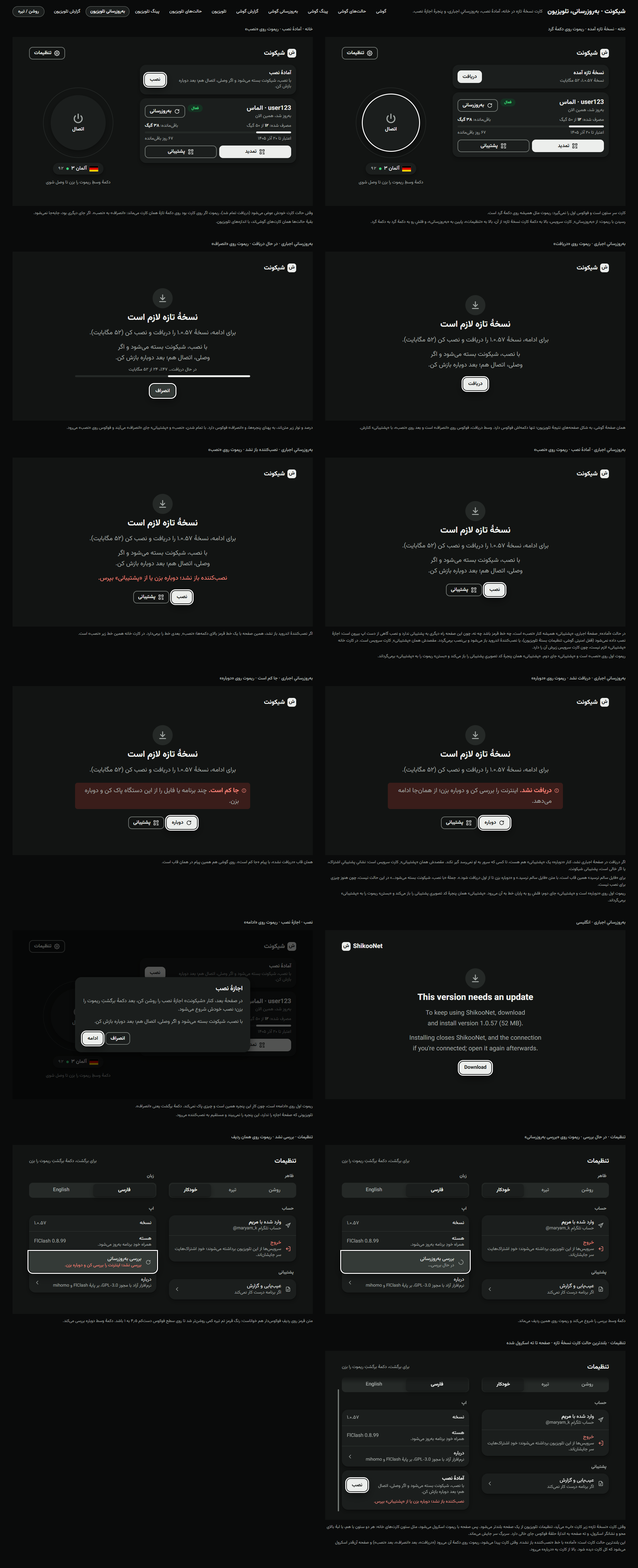
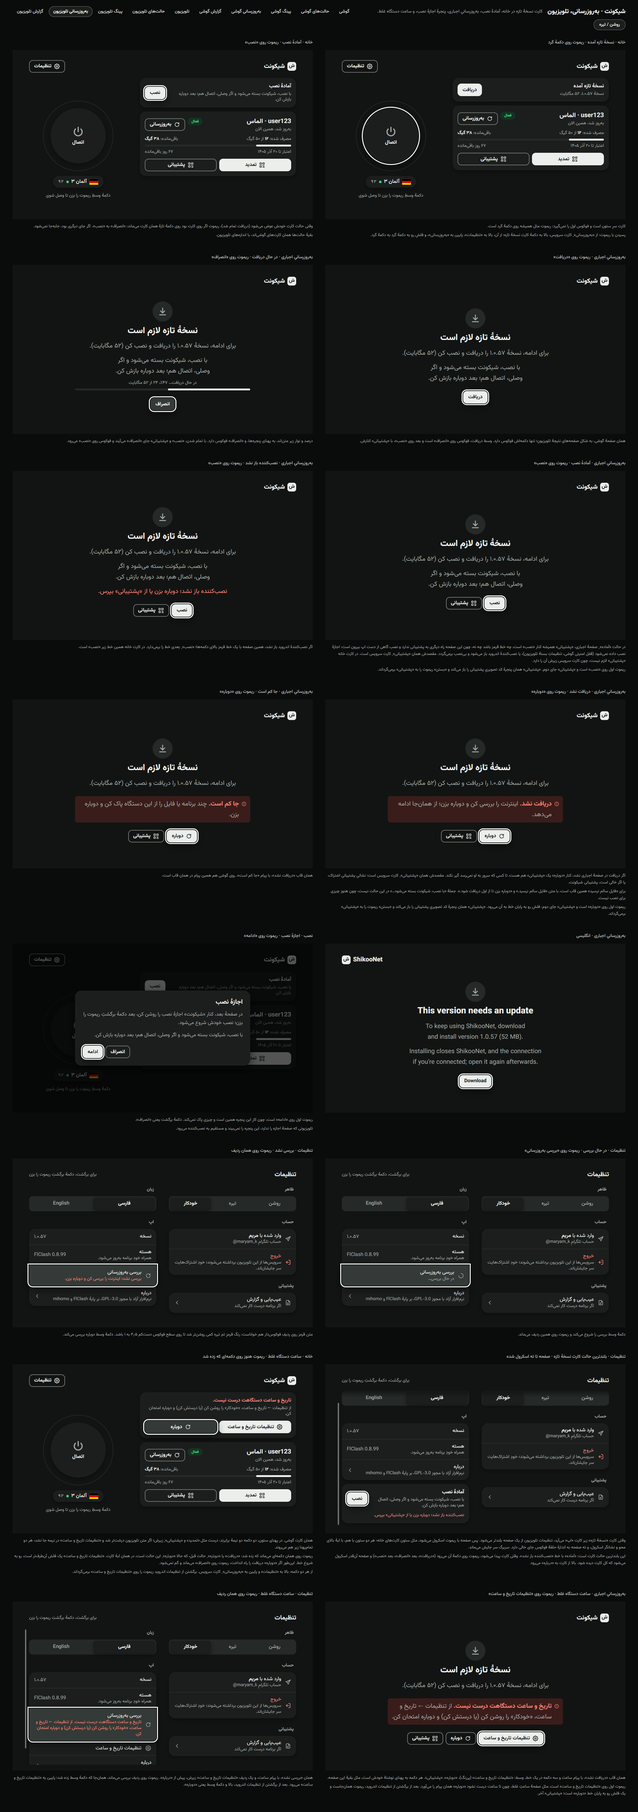
docs(design): draw the wrong-clock card, settings row and forced page
The update card's clock state puts its two buttons under the text, Date &
time settings first and primary, as equal halves like Renew and Support or
both full width when the longer one does not fit. Settings shows Date & time
settings as a plain row under the check row. The forced page leads with Date
& time settings, focused on TV, then Try again and Support.

diff --git a/design/mockups/tv-update.html b/design/mockups/tv-update.html
@@ -15,7 +15,7 @@
 
 <header class="sheet-head">
   <h1>شیکونت · بهروزرسانی، تلویزیون</h1>
-  <p>کارت نسخهٔ تازه در خانه، آمادهٔ نصب، بهروزرسانیِ اجباری، و پنجرهٔ اجازهٔ نصب.</p>
+  <p>کارت نسخهٔ تازه در خانه، آمادهٔ نصب، بهروزرسانیِ اجباری، پنجرهٔ اجازهٔ نصب، و ساعت دستگاه غلط.</p>
   <nav class="sheet-nav">
     <a href="phone.html">گوشی</a>
     <a href="phone-states.html">حالتهای گوشی</a>
@@ -504,6 +504,144 @@
     </div>
     <p class="note">وقتی کارت «نسخهٔ تازه» زیر کارت «اپ» میآید، تنظیمات تلویزیون از یک صفحه بلندتر میشود. پس صفحه با ریموت اسکرول میشود، مثل ستون کارتهای خانه: هر دو ستون با هم، با لبهٔ بالای محو و نشانگر اسکرول، و ته صفحه به اندازهٔ حلقهٔ فوکوس جای خالی دارد. سربرگ سر جایش میماند.</p>
     <p class="note">این بلندترین حالت کارت است: «آماده» با خط «نصبکننده باز نشد». وقتی کارت پیدا میشود، ریموت روی دکمهٔ آن میرود («دریافت»، بعد «انصراف»، بعد «نصب») و صفحه آنقدر اسکرول میشود که کل کارت دیده شود. بالا از کارت به «درباره» میرود.</p>
+  </figure>
+
+  <figure class="shot">
+    <figcaption>خانه · ساعت دستگاه غلط · ریموت هنوز روی دکمهای که زده شد</figcaption>
+    <div class="tv" data-device="tv" data-frame="tv-home-update-clock">
+      <header class="tv-top">
+        <div class="brand"><span class="mark">ش</span><span>شیکونت</span></div>
+        <button class="btn btn-outline" type="button"><svg class="icon"><use href="#i-gear"/></svg>تنظیمات</button>
+      </header>
+      <div class="tv-home">
+        <div class="tv-col">
+          <div class="tv-col-content">
+            <section class="card update is-error">
+              <div class="update-row"><span class="t"><strong>تاریخ و ساعت دستگاهت درست نیست.</strong><small>از تنظیمات ← تاریخ و ساعت، «خودکار» را روشن کن (یا درستش کن) و دوباره امتحان کن.</small></span></div>
+              <div class="actions">
+                <button class="btn btn-primary" type="button"><svg class="icon"><use href="#i-gear"/></svg>تنظیمات تاریخ و ساعت</button>
+                <button class="btn btn-outline is-focused" type="button"><svg class="icon"><use href="#i-refresh"/></svg>دوباره</button>
+              </div>
+            </section>
+            <article class="card svc">
+              <header class="svc-head">
+                <div class="svc-titles">
+                  <div class="svc-line"><h2 class="svc-name"><bdi dir="ltr">user123</bdi> <span class="tier">· الماس</span></h2><span class="chip chip-positive">فعال</span></div>
+                  <p class="svc-sub">بهروز شد، همین الان</p>
+                </div>
+                <button class="btn btn-outline" type="button"><svg class="icon"><use href="#i-refresh"/></svg>بهروزرسانی</button>
+              </header>
+              <div class="usage">
+                <div class="usage-row"><span>مصرف شده: <strong>۱۲</strong> از ۵۰&nbsp;گیگ</span><span>باقیمانده: <strong>۳۸ گیگ</strong></span></div>
+                <div class="bar"><span style="inline-size: 24%"></span></div>
+                <div class="usage-row"><span>اعتبار تا ۲۰ آذر ۱۴۰۵</span><span>۶۷ روز باقیمانده</span></div>
+              </div>
+              <div class="actions">
+                <button class="btn btn-primary" type="button"><svg class="icon"><use href="#i-qr"/></svg>تمدید</button>
+                <button class="btn btn-outline" type="button"><svg class="icon"><use href="#i-qr"/></svg>پشتیبانی</button>
+              </div>
+            </article>
+          </div>
+        </div>
+        <section class="tv-power">
+          <div class="power-ring">
+            <button class="power" type="button">
+              <svg class="icon"><use href="#i-power"/></svg>
+              <span class="power-label">اتصال</span>
+            </button>
+          </div>
+          <span class="now"><svg class="flag"><use href="#f-de"/></svg>آلمان ۳<span class="ping">۹۲</span></span>
+          <p class="tv-hint">دکمهٔ وسطِ ریموت را بزن تا وصل شوی</p>
+        </section>
+      </div>
+    </div>
+    <p class="note">همان کارت گوشی. در پهنای ستون، دو دکمه دو نیمهٔ برابرند، درست مثل «تمدید» و «پشتیبانی» ِ زیرش؛ اگر متن تلویزیون درشتتر شد و «تنظیمات تاریخ و ساعت» در نیمه جا نشد، هر دو تمامپهنا زیر هم میروند.</p>
+    <p class="note">ریموت روی همان دکمهای میماند که زده شد: «دریافت» یا «دوباره» ِ حالت قبل، که حالا «دوباره» ِ این حالت است، در همان لبهٔ کارت. «تنظیمات تاریخ و ساعت» یک فلش آنطرفتر است، رو به شروع خط. اینطور اگر «دوباره» دریافت را راه انداخت، ریموت روی «انصراف» میماند و گم نمیشود.</p>
+    <p class="note">از هر دو دکمه، بالا به «تنظیمات» و پایین به «بهروزرسانی» ِ کارت سرویس. برگشتن از تنظیمات اندروید ریموت را روی «تنظیمات تاریخ و ساعت» برمیگرداند.</p>
+  </figure>
+
+  <figure class="shot">
+    <figcaption>بهروزرسانیِ اجباری · ساعت دستگاه غلط · ریموت روی «تنظیمات تاریخ و ساعت»</figcaption>
+    <div class="tv" data-device="tv" data-frame="tv-update-forced-clock">
+      <header class="tv-top">
+        <div class="brand"><span class="mark">ش</span><span>شیکونت</span></div>
+      </header>
+      <div class="tv-result">
+        <span class="hero-icon muted"><svg class="icon"><use href="#i-download"/></svg></span>
+        <h1>نسخهٔ تازه لازم است</h1>
+        <p>برای ادامه، نسخهٔ ۱.۰.۵۷ را دریافت و نصب کن (۵۲ مگابایت).</p>
+        <p class="notice msg danger" role="alert"><svg class="icon"><use href="#i-alert"/></svg><span><strong>تاریخ و ساعت دستگاهت درست نیست.</strong> از تنظیمات ← تاریخ و ساعت، «خودکار» را روشن کن (یا درستش کن) و دوباره امتحان کن.</span></p>
+        <div class="actions">
+          <button class="btn btn-primary is-focused" type="button"><svg class="icon"><use href="#i-gear"/></svg>تنظیمات تاریخ و ساعت</button>
+          <button class="btn btn-outline" type="button"><svg class="icon"><use href="#i-refresh"/></svg>دوباره</button>
+          <button class="btn btn-outline" type="button"><svg class="icon"><use href="#i-qr"/></svg>پشتیبانی</button>
+        </div>
+      </div>
+    </div>
+    <p class="note">همان قاب «دریافت نشد»، با پیام ساعت و سه دکمه در یک خط، وسط: «تنظیمات تاریخ و ساعت» (پررنگ)، «دوباره»، «پشتیبانی». هر دکمه به پهنای نوشتهٔ خودش است، مثل بقیهٔ این صفحه.</p>
+    <p class="note">ریموت اول روی «تنظیمات تاریخ و ساعت» است، مثل صفحهٔ ساعتِ غلط، چون تا ساعت درست نشود «دوباره» همان پیام را میآورد. بعد از برگشتن از تنظیمات اندروید، ریموت همانجاست و یک فلش رو به پایان خط «دوباره» است؛ «پشتیبانی» آخر.</p>
+  </figure>
+
+  <figure class="shot">
+    <figcaption>تنظیمات · ساعت دستگاه غلط · ریموت روی همان ردیف</figcaption>
+    <div class="tv" data-device="tv" data-frame="tv-settings-app-clock">
+      <header class="tv-top">
+        <h2 class="tv-title">تنظیمات</h2>
+        <span class="tv-hint">برای برگشت، دکمهٔ برگشتِ ریموت را بزن</span>
+      </header>
+      <div class="tv-settings">
+        <div class="tv-col" data-scroll-to="section">
+          <div class="tv-col-content">
+        <div class="settings">
+          <section>
+            <h3 class="group-title">ظاهر</h3>
+            <div class="segmented" role="radiogroup">
+              <button type="button" role="radio" aria-checked="false">روشن</button>
+              <button type="button" role="radio" aria-checked="false">تیره</button>
+              <button type="button" role="radio" aria-checked="true">خودکار</button>
+            </div>
+          </section>
+          <section>
+            <h3 class="group-title">زبان</h3>
+            <div class="segmented" role="radiogroup">
+              <button type="button" role="radio" aria-checked="true">فارسی</button>
+              <button type="button" role="radio" aria-checked="false" lang="en">English</button>
+            </div>
+          </section>
+          <section>
+            <h3 class="group-title">حساب</h3>
+            <div class="card">
+              <div class="row">
+                <svg class="icon"><use href="#i-plane"/></svg>
+                <span class="t"><span>وارد شده با <strong>مریم</strong></span><small>حساب تلگرامِ <bdi dir="ltr">@maryam_k</bdi></small></span>
+              </div>
+              <button class="row danger" type="button">
+                <svg class="icon"><use href="#i-logout"/></svg>
+                <span class="t"><span>خروج</span><small>سرویسها از این تلویزیون برداشته میشوند؛ خودِ اشتراکهایت سر جایشاناند.</small></span>
+              </button>
+            </div>
+            <h3 class="group-title">پشتیبانی</h3>
+            <div class="card">
+              <button class="row" type="button"><svg class="icon"><use href="#i-report"/></svg><span class="t"><span>عیبیابی و گزارش</span><small>اگر برنامه درست کار نمیکند</small></span><svg class="icon"><use href="#i-chevron-fwd"/></svg></button>
+            </div>
+          </section>
+          <section>
+            <h3 class="group-title">اپ</h3>
+            <div class="card">
+              <div class="row"><span class="t"><span>نسخه</span></span><span class="value">۱.۰.۵۷</span></div>
+              <div class="row"><span class="t"><span>هسته</span><small>همراه خودِ برنامه بهروز میشود.</small></span><span class="value"><bdi dir="ltr">FlClash 0.8.99</bdi></span></div>
+              <button class="row is-focused" type="button"><svg class="icon"><use href="#i-refresh"/></svg><span class="t"><span>بررسی بهروزرسانی</span><small class="danger">تاریخ و ساعت دستگاهت درست نیست. از تنظیمات ← تاریخ و ساعت، «خودکار» را روشن کن (یا درستش کن) و دوباره امتحان کن.</small></span></button>
+              <button class="row" type="button"><svg class="icon"><use href="#i-gear"/></svg><span class="t"><span>تنظیمات تاریخ و ساعت</span></span></button>
+              <button class="row" type="button"><span class="t"><span>درباره</span><small>نرمافزار آزاد با مجوز <bdi>GPL-3.0</bdi>، بر پایهٔ <bdi>FlClash</bdi> و <bdi>mihomo</bdi></small></span><svg class="icon"><use href="#i-chevron-fwd"/></svg></button>
+            </div>
+          </section>
+        </div>
+          </div>
+          <span class="scroll-thumb"></span>
+        </div>
+      </div>
+    </div>
+    <p class="note">همان «بررسی نشد»، با پیام ساعت، و یک ردیف «تنظیمات تاریخ و ساعت» زیرش، پیش از «درباره». ریموت روی ردیف بررسی میماند، همانجا که دکمهٔ وسط زده شد؛ پایین به «تنظیمات تاریخ و ساعت» میرود. بعد از برگشتن از تنظیمات اندروید، بالا و دکمهٔ وسط یعنی «دوباره».</p>
   </figure>
 
 </main>

diff --git a/design/mockups/phone-update.html b/design/mockups/phone-update.html
@@ -15,7 +15,7 @@
 
 <header class="sheet-head">
   <h1>شیکونت · بهروزرسانی، گوشی</h1>
-  <p>کارت نسخهٔ تازه در خانه و پنج حالتش، بهروزرسانیِ اجباری، و پنجرهٔ اجازهٔ نصب؛ گوشی معمولی و گوشی کوچک با قلم ۱٫۴۵.</p>
+  <p>کارت نسخهٔ تازه در خانه و پنج حالتش، بهروزرسانیِ اجباری، پنجرهٔ اجازهٔ نصب، و ساعت دستگاه غلط؛ گوشی معمولی و گوشی کوچک با قلم ۱٫۴۵.</p>
   <nav class="sheet-nav">
     <a href="phone.html">گوشی</a>
     <a href="phone-states.html">حالتهای گوشی</a>
@@ -527,6 +527,108 @@
         <div class="update-row"><span class="t"><strong>A new version is out</strong><small>Version 1.0.58, 52 MB</small></span><button class="btn btn-primary" type="button">Download</button></div>
       </section>
     </div>
+  </figure>
+
+  <figure class="shot">
+    <figcaption>ساعت دستگاه غلط · کارت نسخهٔ تازه و بخش «اپ» ِ تنظیمات</figcaption>
+    <div class="cards-stack" data-frame="phone-cards-clock">
+      <section class="card update is-error">
+        <div class="update-row"><span class="t"><strong>تاریخ و ساعت دستگاهت درست نیست.</strong><small>از تنظیمات ← تاریخ و ساعت، «خودکار» را روشن کن (یا درستش کن) و دوباره امتحان کن.</small></span></div>
+        <div class="actions">
+          <button class="btn btn-primary" type="button"><svg class="icon"><use href="#i-gear"/></svg>تنظیمات تاریخ و ساعت</button>
+          <button class="btn btn-outline" type="button"><svg class="icon"><use href="#i-refresh"/></svg>دوباره</button>
+        </div>
+      </section>
+      <div class="card">
+        <div class="row"><span class="t"><span>نسخه</span></span><span class="value">۱.۰.۵۷</span></div>
+        <div class="row"><span class="t"><span>هسته</span><small>همراه خودِ برنامه بهروز میشود.</small></span><span class="value"><bdi dir="ltr">FlClash 0.8.99</bdi></span></div>
+        <button class="row" type="button"><svg class="icon"><use href="#i-refresh"/></svg><span class="t"><span>بررسی بهروزرسانی</span><small class="danger">تاریخ و ساعت دستگاهت درست نیست. از تنظیمات ← تاریخ و ساعت، «خودکار» را روشن کن (یا درستش کن) و دوباره امتحان کن.</small></span></button>
+        <button class="row" type="button"><svg class="icon"><use href="#i-gear"/></svg><span class="t"><span>تنظیمات تاریخ و ساعت</span></span></button>
+        <button class="row" type="button"><span class="t"><span>درباره</span><small>نرمافزار آزاد با مجوز <bdi>GPL-3.0</bdi>، بر پایهٔ <bdi>FlClash</bdi> و <bdi>mihomo</bdi></small></span><svg class="icon"><use href="#i-chevron-fwd"/></svg></button>
+      </div>
+    </div>
+    <p class="note">بالا، کارت نسخهٔ تازه وقتی دریافت به خاطر ساعت دستگاه پذیرفته نشد؛ در خانه و در تنظیمات همین است. این تنها حالتِ کارت با دو دکمه است، پس دکمه کنار متن نمینشیند: متن تمامپهناست و دو دکمه زیرش میآیند.</p>
+    <p class="note">دو دکمه مثل «تمدید» و «پشتیبانی» ِ کارت سرویساند: دو نیمهٔ برابر در یک خط. اگر «تنظیمات تاریخ و ساعت» در نیمه جا نشود، هر دو تمامپهنا زیر هم میروند؛ هیچوقت دو دکمهٔ ناهمپهنا زیر هم نیستند. روی گوشی همیشه زیر هماند.</p>
+    <p class="note">ترتیب همان صفحهٔ ساعتِ غلط و گزارش است: اول «تنظیمات تاریخ و ساعت» (پررنگ)، بعد «دوباره». جفت دکمه همهجا آیکون دارد، چرخدنده و پیکان چرخان.</p>
+    <p class="note">پایین، بخش «اپ» ِ تنظیمات. «دوباره» ِ این بخش خودِ ردیف «بررسی بهروزرسانی» است، مثل «بررسی نشد». «تنظیمات تاریخ و ساعت» یک ردیف معمولیِ تنظیمات است، با آیکون چرخدنده و بیپیکان، درست زیر همان ردیف و پیش از «درباره»؛ دکمهٔ جدا نیست، پس جایش راست و چپ ندارد. با درست شدن ساعت و بررسیِ دوباره، یا بیرون رفتن از تنظیمات، ردیف میرود.</p>
+  </figure>
+
+  <figure class="shot">
+    <figcaption>بهروزرسانیِ اجباری · ساعت دستگاه غلط</figcaption>
+    <div class="phone" data-frame="phone-update-forced-clock">
+      <div class="statusbar"><span>۱۲:۴۰</span><svg><use href="#sb"/></svg></div>
+      <div class="login">
+        <div class="login-brand">
+          <span class="hero-icon muted"><svg class="icon"><use href="#i-download"/></svg></span>
+          <span class="word">نسخهٔ تازه لازم است</span>
+          <span class="sub">برای ادامه، نسخهٔ ۱.۰.۵۷ را دریافت و نصب کن (۵۲ مگابایت).</span>
+        </div>
+        <p class="notice msg danger" role="alert"><svg class="icon"><use href="#i-alert"/></svg><span><strong>تاریخ و ساعت دستگاهت درست نیست.</strong> از تنظیمات ← تاریخ و ساعت، «خودکار» را روشن کن (یا درستش کن) و دوباره امتحان کن.</span></p>
+        <button class="btn btn-primary" type="button">تنظیمات تاریخ و ساعت</button>
+        <button class="btn btn-outline" type="button">دوباره</button>
+        <button class="btn btn-outline" type="button">پشتیبانی</button>
+      </div>
+      <div class="gesture"></div>
+    </div>
+    <p class="note">همان قاب «دریافت نشد»، با پیام ساعت و یک دکمهٔ بیشتر. «تنظیمات تاریخ و ساعت» اول و پررنگ است، چون تا ساعت درست نشود «دوباره» همان پیام را میآورد؛ بعد «دوباره» و «پشتیبانی». همه تمامپهنا و بیآیکون، مثل بقیهٔ دکمههای همین صفحه روی گوشی.</p>
+  </figure>
+
+  <figure class="shot">
+    <figcaption>گوشی کوچک، قلم ۱٫۴۵ · ساعت دستگاه غلط</figcaption>
+    <div class="cards-stack small" data-font-scale style="--font-scale: 1.45" data-frame="phone-cards-clock-small">
+      <section class="card update is-error">
+        <div class="update-row"><span class="t"><strong>تاریخ و ساعت دستگاهت درست نیست.</strong><small>از تنظیمات ← تاریخ و ساعت، «خودکار» را روشن کن (یا درستش کن) و دوباره امتحان کن.</small></span></div>
+        <div class="actions">
+          <button class="btn btn-primary" type="button"><svg class="icon"><use href="#i-gear"/></svg>تنظیمات تاریخ و ساعت</button>
+          <button class="btn btn-outline" type="button"><svg class="icon"><use href="#i-refresh"/></svg>دوباره</button>
+        </div>
+      </section>
+      <div class="card">
+        <button class="row" type="button"><svg class="icon"><use href="#i-refresh"/></svg><span class="t"><span>بررسی بهروزرسانی</span><small class="danger">تاریخ و ساعت دستگاهت درست نیست. از تنظیمات ← تاریخ و ساعت، «خودکار» را روشن کن (یا درستش کن) و دوباره امتحان کن.</small></span></button>
+        <button class="row" type="button"><svg class="icon"><use href="#i-gear"/></svg><span class="t"><span>تنظیمات تاریخ و ساعت</span></span></button>
+        <button class="row" type="button"><span class="t"><span>درباره</span><small>نرمافزار آزاد با مجوز <bdi>GPL-3.0</bdi>، بر پایهٔ <bdi>FlClash</bdi> و <bdi>mihomo</bdi></small></span><svg class="icon"><use href="#i-chevron-fwd"/></svg></button>
+      </div>
+    </div>
+    <p class="note">با قلم درشت هم «تنظیمات تاریخ و ساعت» با آیکونش در یک خط جا میشود و بریده نمیشود.</p>
+  </figure>
+
+  <figure class="shot">
+    <figcaption>گوشی کوچک، قلم ۱٫۴۵ · بهروزرسانیِ اجباری، ساعت دستگاه غلط</figcaption>
+    <div class="phone small" data-font-scale style="--font-scale: 1.45" data-frame="phone-small-update-forced-clock">
+      <div class="statusbar"><span>۱۲:۴۰</span><svg><use href="#sb"/></svg></div>
+      <div class="login">
+        <div class="login-brand">
+          <span class="hero-icon muted"><svg class="icon"><use href="#i-download"/></svg></span>
+          <span class="word">نسخهٔ تازه لازم است</span>
+          <span class="sub">برای ادامه، نسخهٔ ۱.۰.۵۷ را دریافت و نصب کن (۵۲ مگابایت).</span>
+        </div>
+        <p class="notice msg danger" role="alert"><svg class="icon"><use href="#i-alert"/></svg><span><strong>تاریخ و ساعت دستگاهت درست نیست.</strong> از تنظیمات ← تاریخ و ساعت، «خودکار» را روشن کن (یا درستش کن) و دوباره امتحان کن.</span></p>
+        <button class="btn btn-primary" type="button">تنظیمات تاریخ و ساعت</button>
+        <button class="btn btn-outline" type="button">دوباره</button>
+        <button class="btn btn-outline" type="button">پشتیبانی</button>
+      </div>
+      <div class="gesture"></div>
+    </div>
+    <p class="note">بلندترین حالت این صفحه: با قلم درشت هم پیام و سه دکمه بیاسکرول جا میشوند.</p>
+  </figure>
+
+  <figure class="shot">
+    <figcaption>گوشی کوچک، قلم ۱٫۴۵ · انگلیسی، ساعت دستگاه غلط</figcaption>
+    <div class="cards-stack small" data-font-scale style="--font-scale: 1.45" dir="ltr" lang="en" data-frame="phone-cards-clock-small-en">
+      <section class="card update is-error">
+        <div class="update-row"><span class="t"><strong>Your device's date and time are wrong.</strong><small>In Settings › Date &amp; time, turn on “Automatic” (or set them right), then try again.</small></span></div>
+        <div class="actions">
+          <button class="btn btn-primary" type="button"><svg class="icon"><use href="#i-gear"/></svg>Date &amp; time settings</button>
+          <button class="btn btn-outline" type="button"><svg class="icon"><use href="#i-refresh"/></svg>Try again</button>
+        </div>
+      </section>
+      <div class="card">
+        <button class="row" type="button"><svg class="icon"><use href="#i-refresh"/></svg><span class="t"><span>Check for updates</span><small class="danger">Your device's date and time are wrong. In Settings › Date &amp; time, turn on “Automatic” (or set them right), then try again.</small></span></button>
+        <button class="row" type="button"><svg class="icon"><use href="#i-gear"/></svg><span class="t"><span>Date &amp; time settings</span></span></button>
+        <button class="row" type="button"><span class="t"><span>About</span><small>Free software under <bdi>GPL-3.0</bdi>, built on <bdi>FlClash</bdi> and <bdi>mihomo</bdi></small></span><svg class="icon flip-ltr"><use href="#i-chevron-fwd"/></svg></button>
+      </div>
+    </div>
+    <p class="note">از چپ به راست، همان چیدمان: دکمهها و ردیف از لبهٔ چپ شروع میشوند.</p>
   </figure>
 
 </main>

diff --git a/design/mockups/mockup.css b/design/mockups/mockup.css
@@ -26,7 +26,7 @@
  *  ۱۹. پیام چندخطی ..... .notice.msg + .danger
  *  ۲۰. نام ربات ......... .code-bot (زیر کد ورود) ؛ فهرست نتیجه: .result-list ؛ دایرهٔ خنثی: .hero-icon.muted
  *  ۲۱. سرویسهای تمامشده .finished + .finished-head ؛ باز: .finished-row (.t .n .s) + .btn-sm
- *  ۲۲. نسخهٔ تازه ...... .update + .is-error ؛ .update-row (.t strong small) + دکمه ؛ .bar ؛ .update-msg ؛ صفحهٔ اجباری: .update-progress
+ *  ۲۲. نسخهٔ تازه ...... .update + .is-error ؛ .update-row (.t strong small) + دکمه ؛ .bar ؛ .update-msg ؛ صفحهٔ اجباری: .update-progress ؛ دو دکمه زیر متن: .update > .actions
  *  ۲۳. گزارش ........... کارت بررسی اینترنت: .card.update.check + .is-positive | .is-warning | .is-danger ؛ دکمهٔ گزارش زیر پیام: .msg-action
  *                       پیشنمایش: .report .report-body .report-foot ؛ .report-images (+ .is-off) .report-image .report-tile .mini (+ .is-tv) ؛ .report-note ؛ کلید: .switch در .row[role=switch]
  *  پینگِ در حال سنجش: .ping.is-pending ؛ برچسب «تازه»: .chip-outline ؛ قاب اسکرولشدهٔ گوشی: .scroll-view
@@ -333,6 +333,9 @@ ul { list-style: none; }
 .update-msg { font-size: var(--text-body-sm); line-height: var(--leading-tight); }
 .update-msg, .tv-result .update-msg { color: var(--color-danger); }
 .update-progress { display: flex; flex-direction: column; gap: var(--space-2); font-size: var(--text-body-sm); line-height: var(--leading-tight); color: var(--color-text-muted); }
+/* دو دکمه زیر متن (ساعت غلط): دو نیمهٔ برابر مثل «تمدید» و «پشتیبانی»؛ اگر بلندتری در نیمه جا نشد، هر دو تمامپهنا زیر هم */
+.update > .actions { flex-wrap: wrap; margin-top: 0; padding-bottom: 0; }
+.update > .actions .btn { flex: 1 0 calc((100% - var(--space-2)) / 2); }
 .tv-result .update-progress { inline-size: var(--size-dialog); }
 
 /* ۲۳. گزارش به پشتیبانی */
